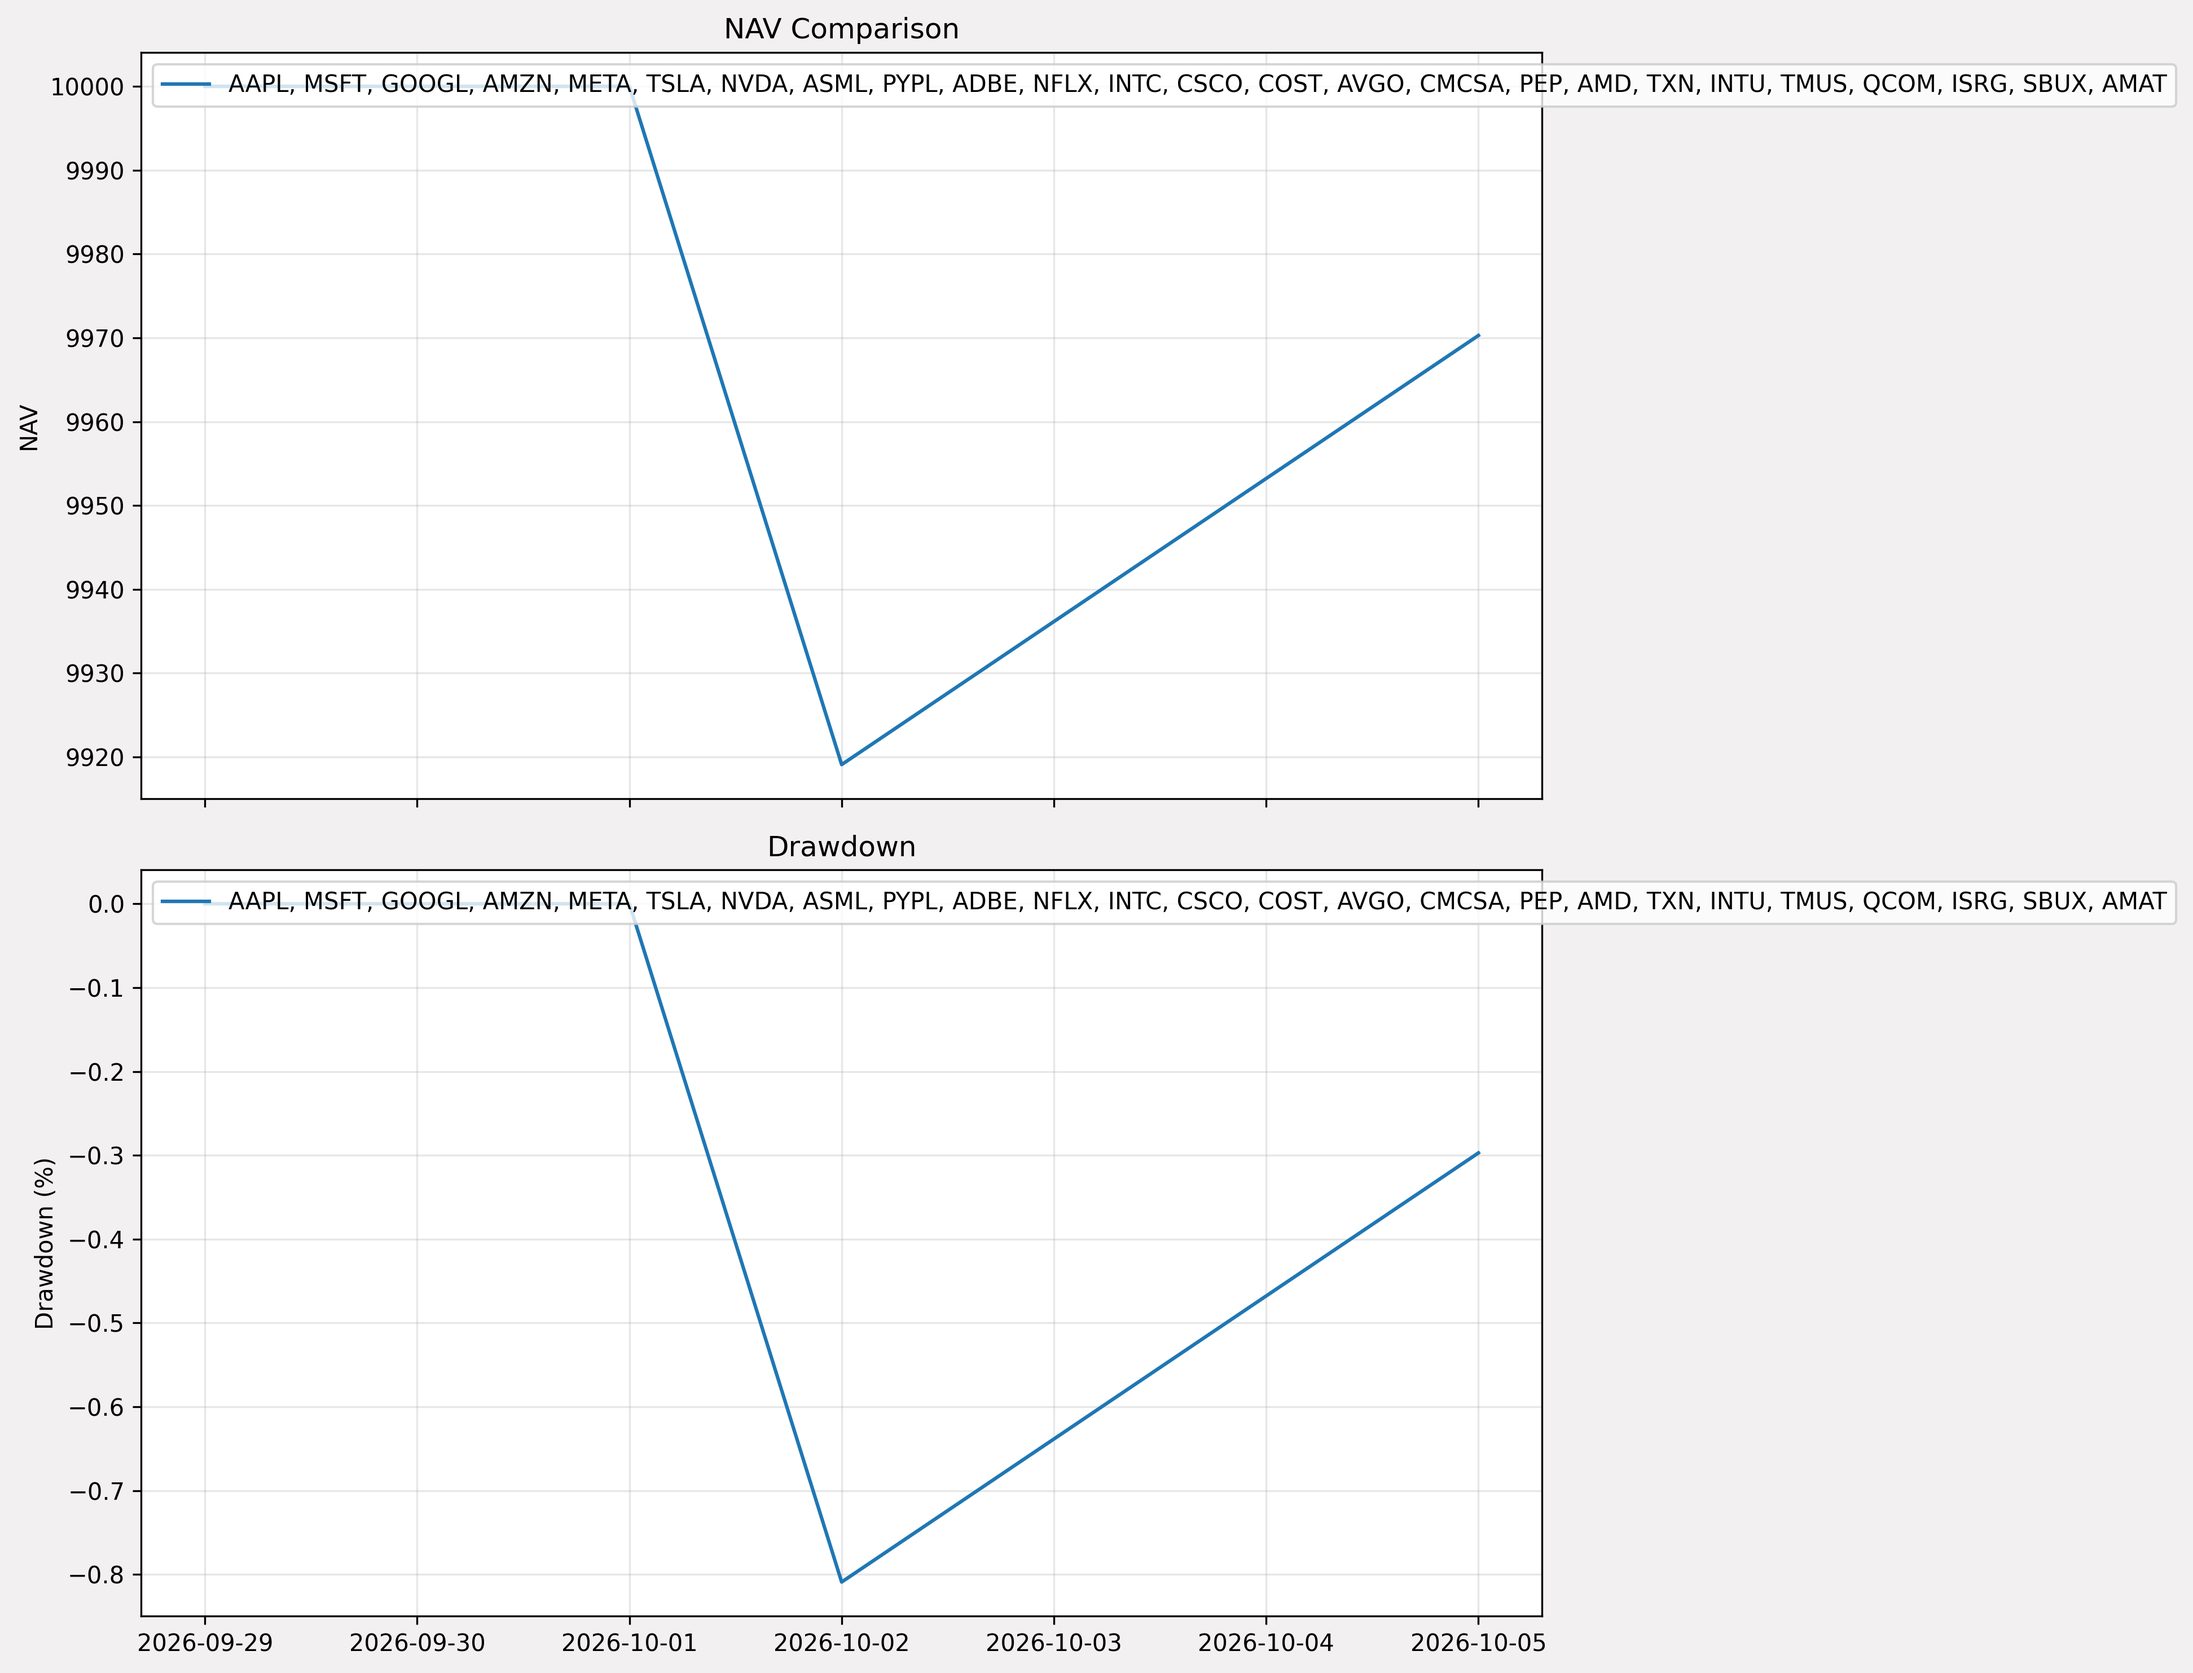
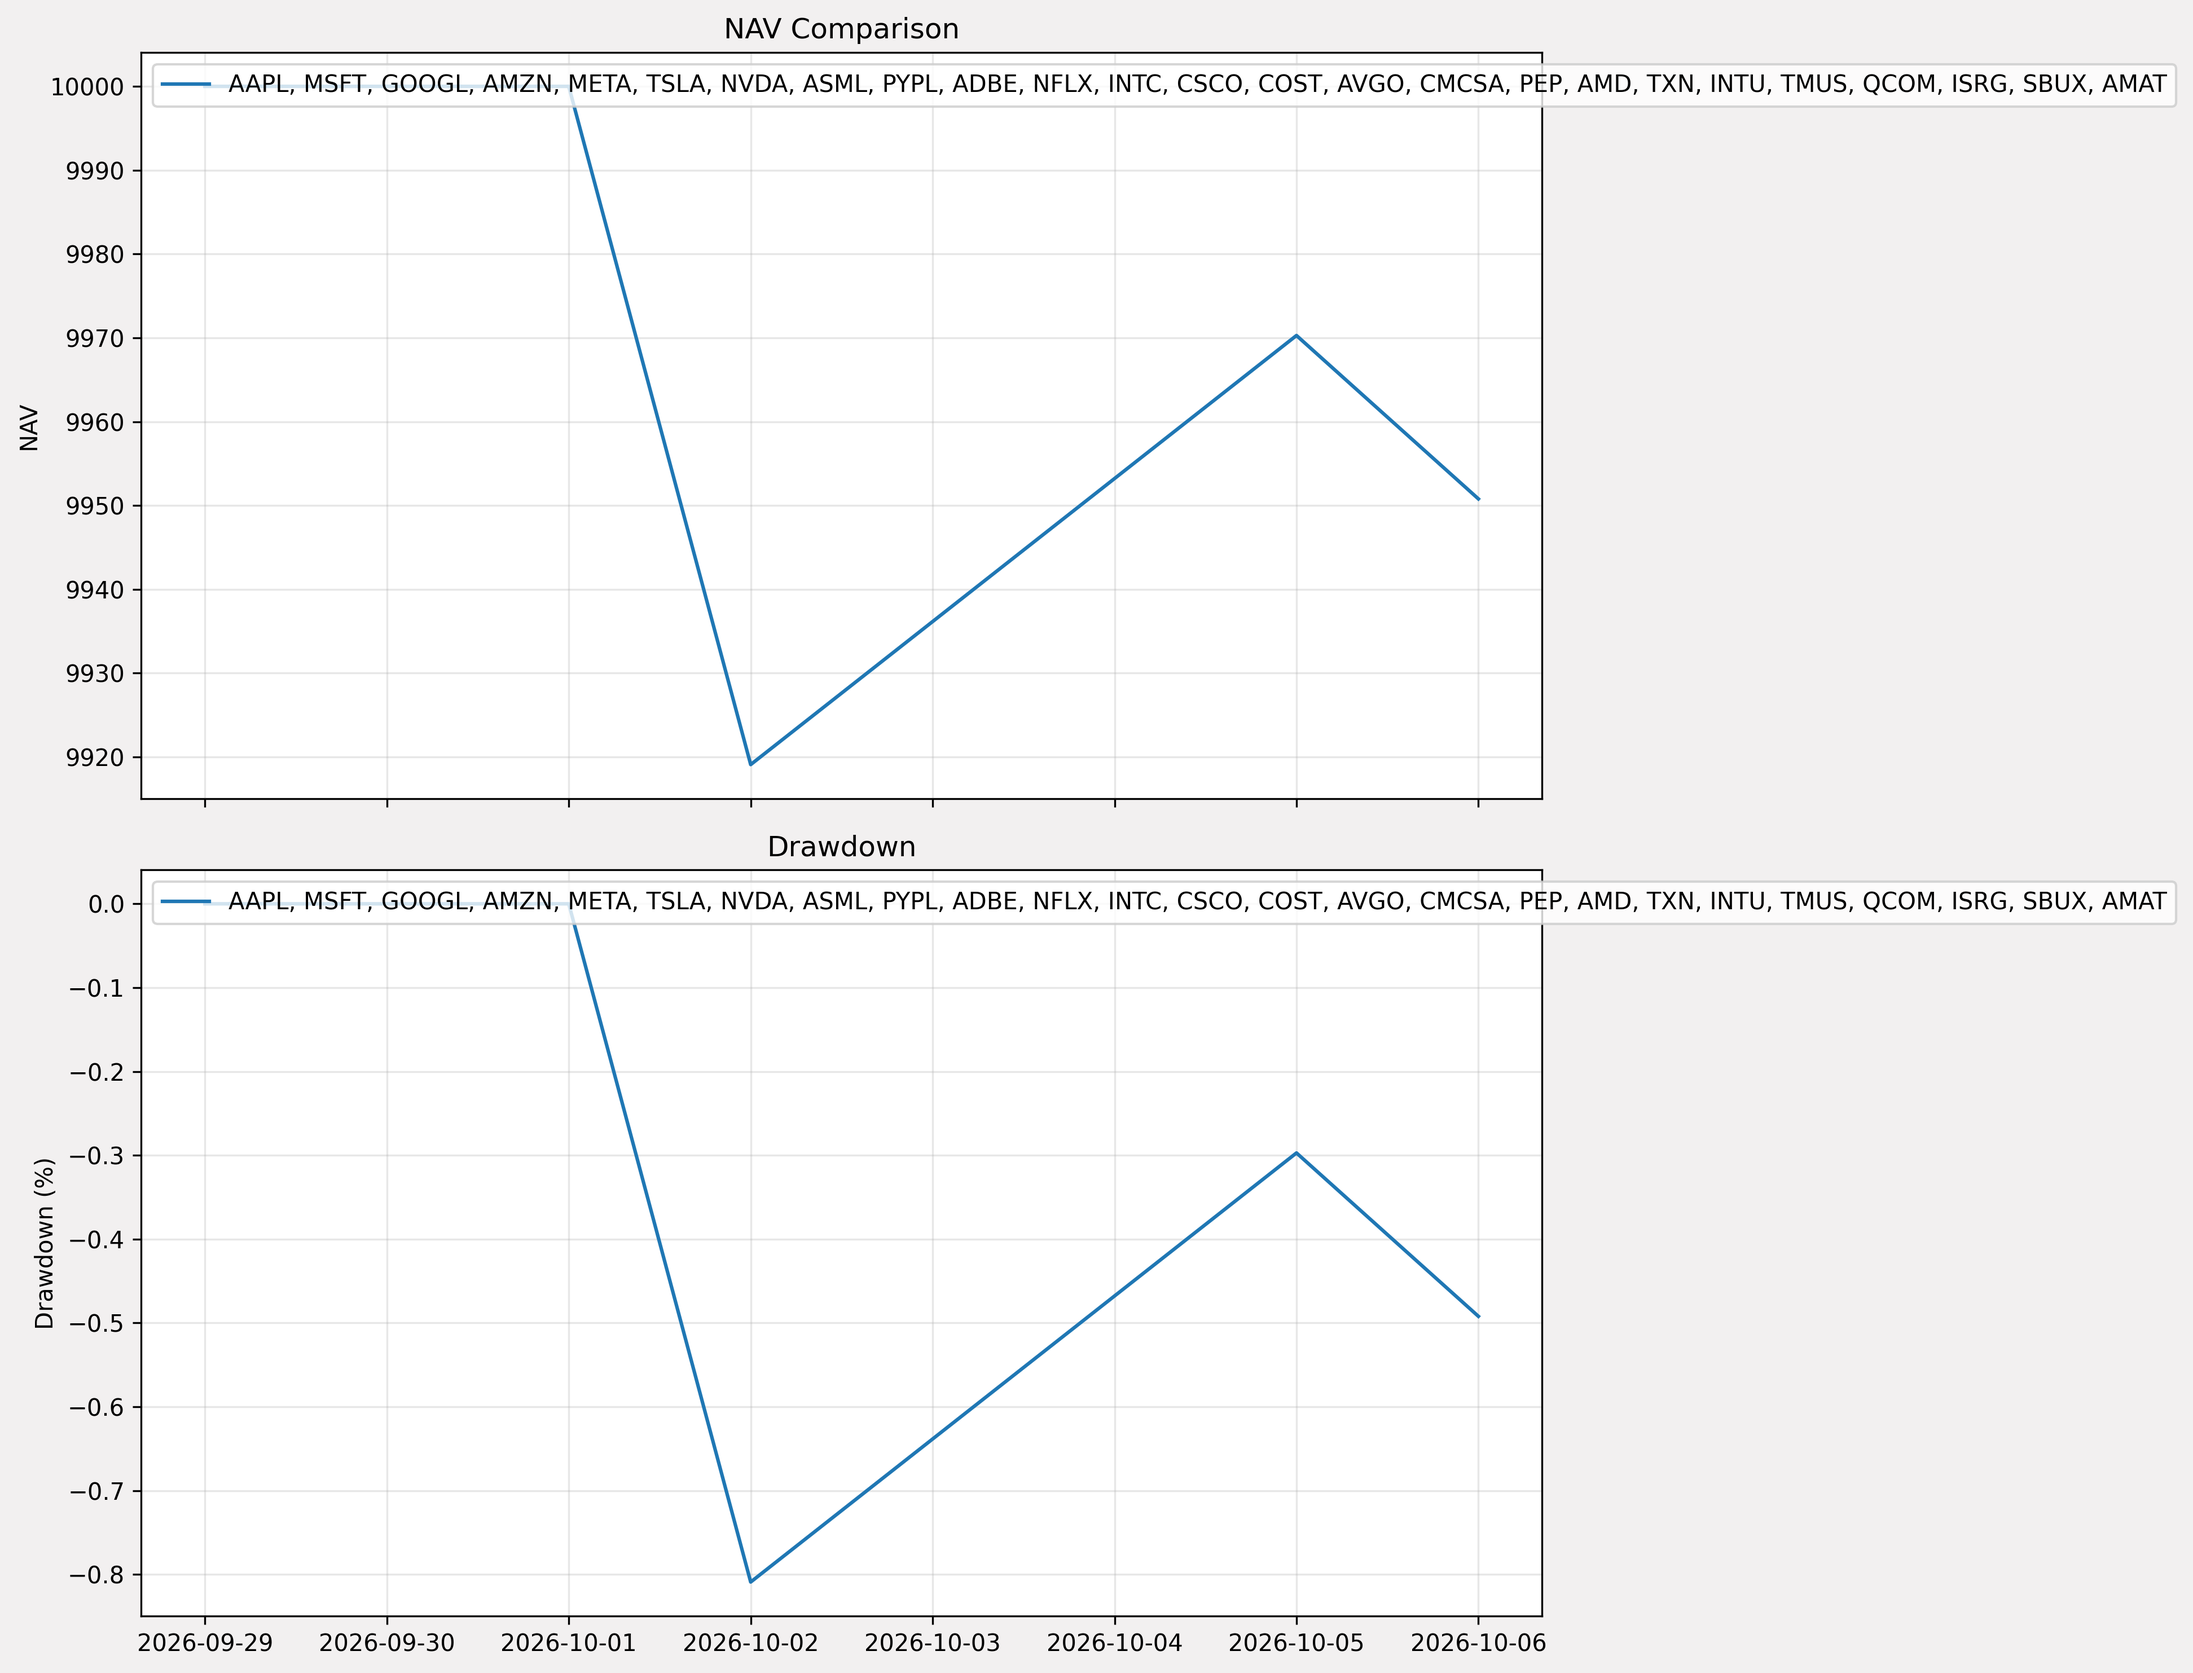
chore: auto-update paper trade reports

diff --git a/docs/paper_trade.md b/docs/paper_trade.md
@@ -15,15 +15,15 @@
 
 | Metric | Value |
 |--------|-------|
-| Total Return | -0.30% |
-| Sharpe Ratio | -2.48 (Period=2 少過 20 日) |
+| Total Return | -0.49% |
+| Sharpe Ratio | -3.90 (Period=3 少過 20 日) |
 | Max Drawdown | -0.81% |
 | Win Rate | N/A (no closed trades) |
 | Total Trades | 0 |
-| Open Positions | 9 |
+| Open Positions | 10 |
 
-*Period: 2026-09-29 → 2026-10-05*
-*Last updated: 2026-10-06 09:49*
+*Period: 2026-09-29 → 2026-10-06*
+*Last updated: 2026-10-07 02:37*
 
 ---
 
